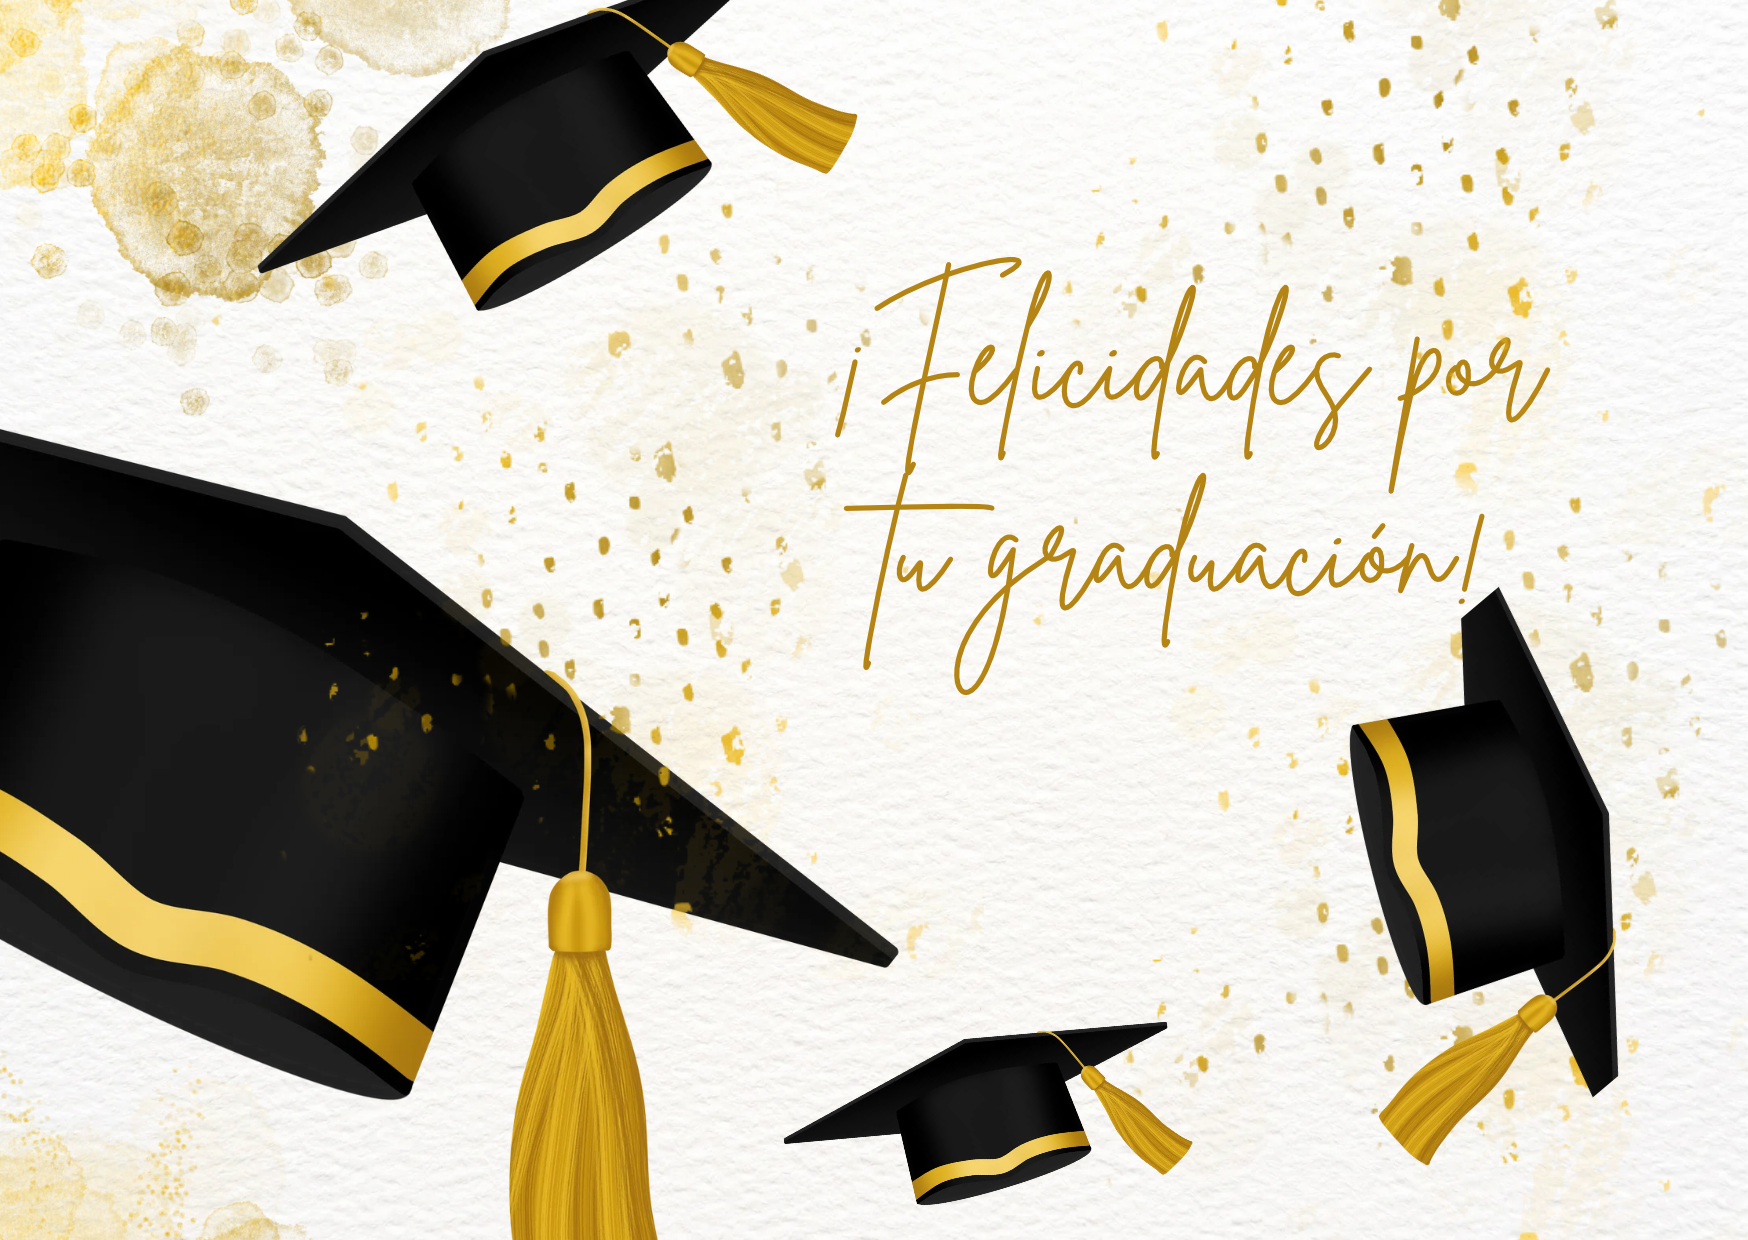
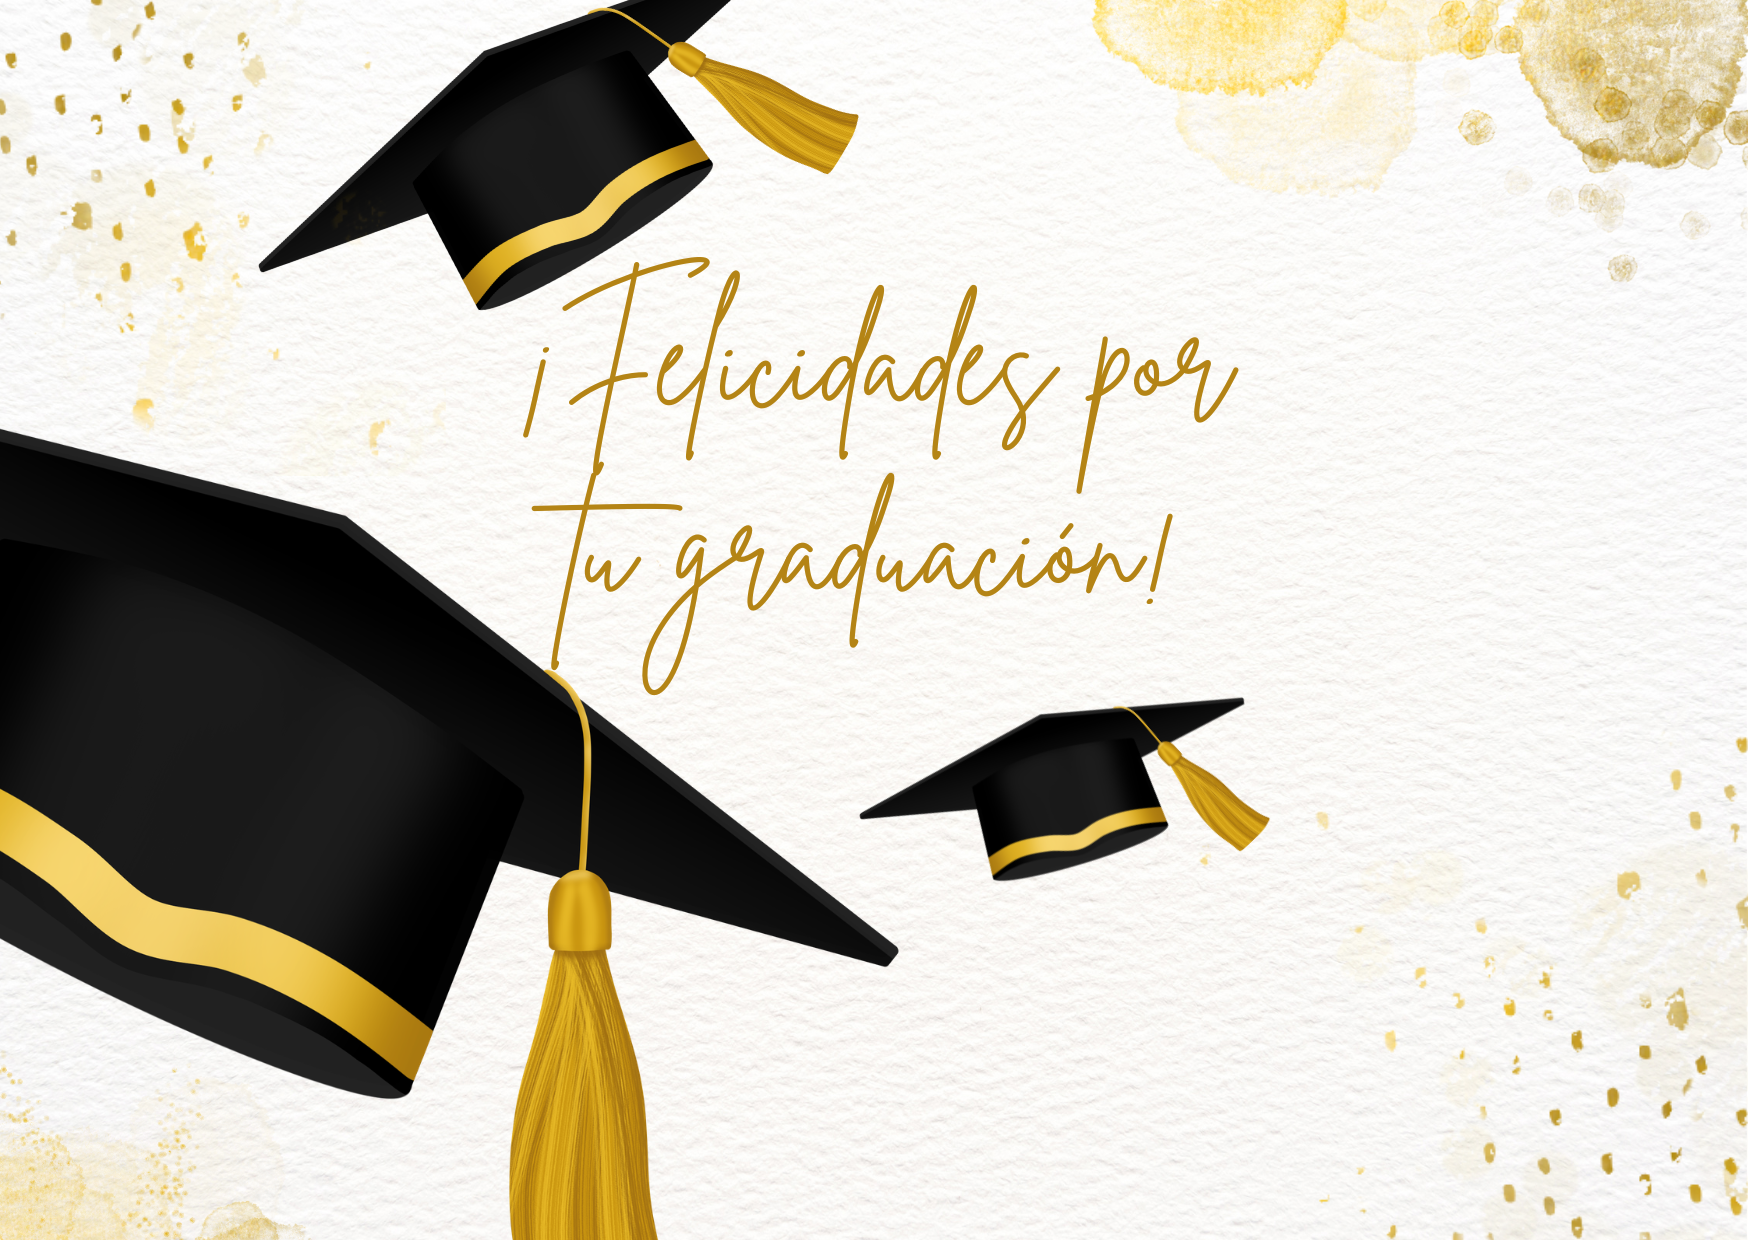
Cambio de fondo

diff --git a/src/App.jsx b/src/App.jsx
@@ -132,7 +132,7 @@ function App() {
           {countdownStarted && (
             <div className="countdown-number">
               {countdown}
-            </div>
+            </div>|
           )}
         </div>
       )}
